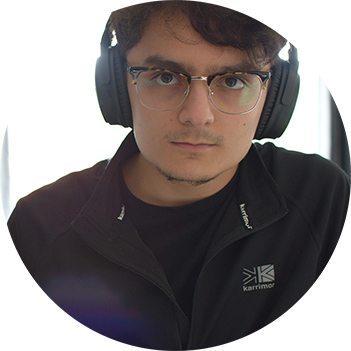
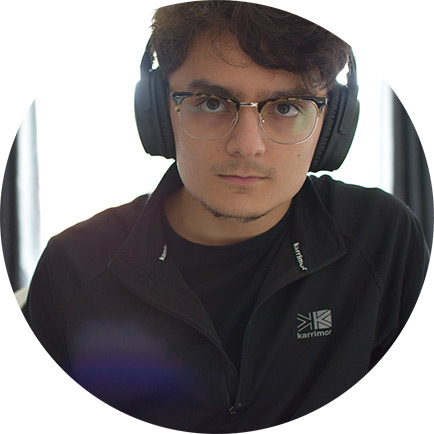
Final changes.

diff --git a/blog.html b/blog.html
@@ -63,21 +63,21 @@
         <figure>
           <img src="img/minecraft.jpg" alt="Minecraft in-game">
           <figcaption>
-            <p>Minecraft, the industry defining indie game.</p>
+            <p>Minecraft, the industry-defining indie game.</p>
           </figcaption>
         </figure>
-        <p>Minecraft actually taught me a lot. I learnt to mod in Java, which I and a couple of friends would turn into playing around with making (very) basic stick figure platforming games. I learnt basic PHP, how FTP and hosting worked, and how to utilise the command line to run my own public multiplayer sever, which I went on to build a community around. I was then given a lesson in leadership through running that server.</p>
-        <p>Somewhere in me, I regret stopping it all. It was something niche and ‘weird’, but that's more often a blessing than a curse. <a href="https://www.entrepreneur.com/article/285858" title="Entrepreneur article on success">Doing it right can bring great opportunity</a>. To much a degree, I was lost in trying to find something meaninful to apply it all to, and at the time, games and servers were not that.</p>
+        <p>Minecraft actually taught me a lot. I learnt to mod in Java, which I and a couple of friends would turn into playing around with making (very) basic stick figure platforming games. I learnt basic PHP, how FTP and hosting worked, and how to utilise the command line to run my own public multiplayer server, which I went on to build a community around. I was then given a lesson in leadership through running that server.</p>
+        <p>Somewhere in me, I regret stopping it all. It was something niche and ‘weird’, but that's more often a blessing than a curse. <a href="https://www.entrepreneur.com/article/285858" title="Entrepreneur article on success">Doing it right can bring great opportunity</a>. To much a degree, I was lost in trying to find something meaningful to apply it all to, and at the time, games and servers were not that.</p>
         <figure>
           <img src="img/oracle.jpg" alt="The Oracle environment">
           <figcaption>
             <p>An example of Minecraft open in the Oracle environment.</p>
           </figcaption>
         </figure>
-        <p>I wanted to be more creative, and lost the heart for programming along the way. Once more, if I look back on that, it was a shame. I went to college studying IT and chose a graphics &amp; media route, as opposed to a programming one. We dabbled in C for a bit, and though I found it fairly easy to pick up having understood the fundamentals of Java (even if I’d forgotten exactly how to write it at this point), I longed for something a little more fulfilling.</p>
+        <p>I wanted to be more creative and lost the heart for programming along the way. Once more, if I look back on that, it was a shame. I went to college studying IT and chose a graphics &amp; media route, as opposed to a programming one. We dabbled in C for a bit, and though I found it fairly easy to pick up having understood the fundamentals of Java (even if I’d forgotten exactly how to write it at this point), I longed for something a little more fulfilling.</p>
         <p>The indecision there meant that I didn’t consider university too much, or even understand entirely how it worked. I found a Digital Media/Marketing course browsing through UCAS one day, and though I still can’t put my finger on why, decided that it would be the only choice. With offers from all universities that I applied to, I chose MMU.</p>
-        <p>Perhaps inevitable given the impulse in the decision, I didn’t really ever feel it for marketing. I reasonably well in it, given the lack of real interest. I was part of groups that made this <a href="https://www.youtube.com/watch?v=LBbVDU4mq30" title="Swizzels' Love Hearts video">advertisement for Swizzels’ Love Hearts brand</a>, and created this <a href="https://drive.google.com/file/d/0ByvNqwTNzDddcjI2N255TFhrMFE/view?usp=sharing" title="PDF of Flux Fitness portfolio">theoretical brand extension for Sony Playstation</a> (be warned, though it does NOT download automatically, that links to a big .PDF file). We managed solid firsts for both of those through extensive research and well thought presentation.</p>
-       <figure>
+        <p>Perhaps inevitable given the impulse in the decision, I didn’t really ever feel it for marketing. I reasonably well in it, given the lack of real interest. I was part of groups that made this <a href="https://www.youtube.com/watch?v=LBbVDU4mq30" title="Swizzels' Love Hearts video">advertisement for Swizzels’ Love Hearts brand</a>, and created this <a href="https://drive.google.com/file/d/0ByvNqwTNzDddcjI2N255TFhrMFE/view?usp=sharing" title="PDF of Flux Fitness portfolio">theoretical brand extension for Sony PlayStation</a> (be warned, though it does NOT download automatically, that links to a big .PDF file). We managed solid firsts for both of those through extensive research and well-thought presentation.</p>
+        <figure>
           <img src="img/swizzels.jpg" alt="Screenshot of the Swizzels' adverstisment">
           <figcaption>
             <p>Intro to the advertisement for Sizzels' Matlow.</p>
@@ -85,7 +85,7 @@
         </figure>
         <p>However, I did decide to switch my graduation route to Web Development in my final year. I had a thing for the coding aspect of websites ever since I started, and the front-end allows me to squeeze in that itch for creativity. It took a while and a lot of back and forth, but I think that I’ve been dropped in the right place this time around.</p>
         <p>This was perhaps the context that I was missing when previously learning these programming skills. I didn't have what I would've considered to be a 'real' reason to be extending my Java knowledge, but I've now seen something that I can apply what I learnt previously in programming to.</p>
-        <p>With the intention of progressing the web field, I’ve opted to delve in to as much as I can. I love listening to podcasts, especially when doing things like commuting or getting other work done. As such, I found some ones relevant to the web; <a href="https://syntax.fm/" title="Syntax.fm podcast">Syntax (though they dive a little deeper)</a>, <a href="http://shoptalkshow.com/" title="Shop Talk podcast">Shop Talk</a>, and <a href="https://responsivewebdesign.com/podcast/" title="Responsive Web Design podcast">A Responsive Web Design Podcast</a> are my regular choices. I’ve also taken to reading on the topic - the <a href="https://abookapart.com/" title="A Book Apart books">A Book Apart ones</a> are great, and short! I then look to attend conferences and workshops where time allows going forward. I was recently at <a href="https://2017.manchester.wordcamp.org/" title="Wordcamp Manchester 2017">Wordcamp Manchester 2017</a>, and have a couple of workshops lined up.</p>
+        <p>With the intention of progressing the web field, I’ve opted to delve into as much as I can. I love listening to podcasts, especially when doing things like commuting or getting other work done. As such, I found some relevant to the web; <a href="https://syntax.fm/" title="Syntax.fm podcast">Syntax (though they dive a little deeper)</a>, <a href="http://shoptalkshow.com/" title="Shop Talk podcast">Shop Talk</a>, and <a href="https://responsivewebdesign.com/podcast/" title="Responsive Web Design podcast">A Responsive Web Design Podcast</a> are my regular choices. I’ve also taken to reading on the topic - the <a href="https://abookapart.com/" title="A Book Apart books">A Book Apart ones</a> are great, and short! I then look to attend conferences and workshops where time allows going forward. I was recently at <a href="https://2017.manchester.wordcamp.org/" title="Wordcamp Manchester 2017">Wordcamp Manchester 2017</a>, and have a couple of workshops lined up.</p>
         <a class="blog-a" href="#top" title="Back to top of page">Back to top of page</a>
       </section>
       <section id="building-the-site" class="container blog">
@@ -93,19 +93,19 @@
         <p>As I’d imagine most students might go, previous iterations of my portfolio send shudders down my spine. I felt that poor design and development decisions couldn’t just be a lack of knowledge though, and a lot of people in industry put empathises on planning - and you could include in that wireframing, prototyping, sticking post-it notes everywhere. It’s most of the time the case that, if you’re to put a student website amongst a number of (even junior) professionals', it’ll stick out like a sore thumb. While I’d argue that my latest effort wasn’t <i>so</i> bad, there were still a lot of things that I’d look at and not think twice about discarding.</p>
         <p>As such, I went researching. As much as I could look at a professional portfolio and know that it’s a step up, I didn’t know why. As well as taking a look at some past MMU graduate’s sites while they were still linked to, I Googled for some good examples of portfolios in my sort of area - returning some good ones like <a href="https://ianlunn.co.uk/" title="Ian Lunn's web portfolio">Ian Lunn</a>, <a href="http://mattfarley.ca/" title="Matt Farley's web portfolio">Matt Farley</a> and <a href="http://www.emilyridge.ie/" title="Emily Ridge's web portfolio">Emily Ridge</a>. These were the ones that I thought were the <i>best</i> examples at least, with aspects and elements which I deemed attainable to my level.</p>
         <figure>
-          <img src="img/mobile-wireframe.jpg" alt="My intial mobile wireframe">
+          <img src="img/mobile-wireframe.jpg" alt="My initial mobile wireframe">
           <figcaption>
-            <p>My intial wireframe designs for mobile.</p>
+            <p>My initial wireframe designs for mobile.</p>
           </figcaption>
         </figure>
         <p>My research returned staples like big buttons position front and center, serving as call-to-actions, and a natural progression through the site (often through links at the end of pages). Icons were also a big thing - visual indicators accompanying text, as opposed to just text alone; I was beginning to see that everywhere. The Nielsen Norman Group wrote an <a href="https://www.nngroup.com/articles/icon-usability/" title="NN Group artcile on icons">article on icons on the web</a>, which highlights why I really love seeing them - they're (in most cases) universally recognisable, easy targets that immediately resonate with the user - as opposed to plain text, where the context isn't always there straight away.</p>
         <figure>
           <img src="img/icons.jpg" alt="Icons used on the web">
           <figcaption>
-            <p>An example on <a href="http://mattfarley.ca/" title="Matt Farley's web portfolio">mattfarley.ca</a> of icons being use on the web.</p>
+            <p>An example on <a href="http://mattfarley.ca/" title="Matt Farley's web portfolio">mattfarley.ca</a> of icons being used on the web.</p>
           </figcaption>
         </figure>
-        <p>A theme that I saw occasionally and despised was almost anything that hides content, or presents an extra step in order to access it. I’ve no affinity whatsoever towards a carousel of images, and hamburger menus on desktop are a long time pet hate. Hidden navigation (and other content) is useful where you can’t appropriately fit content into a viewport - but where you can, and you make the choice to still hide content, it’s even <a href="https://www.nngroup.com/articles/hamburger-menus/" title="NN Group article on menu usability">proven to be much less effective</a>. <a href="https://caferati.me/" title="Rafael Caferati's web portfolio">Rafael Caferati’s portfolio</a>, whilst stunning technically, made me give up after clicking right on the carousel just once.</p>
+        <p>A theme that I saw occasionally and despised was almost anything that hides content or presents an extra step in order to access it. I’ve no affinity whatsoever towards a carousel of images, and hamburger menus on desktop are a long time pet hate. Hidden navigation (and other content) is useful where you can’t appropriately fit content into a viewport - but where you can, and you make the choice to still hide content, it’s even <a href="https://www.nngroup.com/articles/hamburger-menus/" title="NN Group article on menu usability">proven to be much less effective</a>. <a href="https://caferati.me/" title="Rafael Caferati's web portfolio">Rafael Caferati’s portfolio</a>, whilst stunning technically, made me give up after clicking right on the carousel just once.</p>
         <p>While building the portfolio, one of the technologies that I came across which I’m yet to use is CSS Grids. Hearing that it’s the next best thing, I took to reading into it.  I first came across a CSS Tricks article detailing <a href="https://css-tricks.com/snippets/css/complete-guide-grid/" title="CSS Tricks article on grid">everything that you’d need to start with grid</a>, and following reference from that article, I also picked up a copy of Rachael Andrews’ <a href="https://abookapart.com/products/get-ready-for-css-grid-layout" title="Rachael Andrews' Get Ready for CSS Grid Layout">‘Get Ready for CSS Grid Layout’</a>. It's considered one of the best ways to go about layout in the future, once compatibility is across the board <a href="https://caniuse.com/#feat=css-grid" title="CSS Grids compatibility">(it's almost there!)</a>. Grids remove the need for hacked together methods of positioning elements, which were never made for positioning entire pages in the first place (the likes of floats and to a degree, even positioning like absolute) and present a method that's much easier to control from a CSS point of view.</p>
         <figure>
           <img src="img/cssgrids.jpg" alt="CSS Grids compatibility">
@@ -113,23 +113,35 @@
             <p>CSS Grids are almost compatible across the board, as shown by <a href="https://caniuse.com/#feat=css-grid" title="CSS grids compatibility">caniuse.com</a></p>
           </figcaption>
         </figure>
-        <p>After implementing it on a short scale though, I came to realise that grid lacked use in the layout that I was using - one that’s very much single column, where content flows naturally without almost any CSS anyway. It still use it in the header - it works well to keep the arrow to the bottom of the viewport, and the nav spanning the width on mobile - but I was hesitant to use it throughout. I’m certainly keen on using it to a greater extent going forward. Something that I feel would be a huge benefit to myself is that it would allow me to experiment with design a lot more with position being so easy be default, and I could break out of keeping things very linear.</p>
-        <p>I’d finally touch on accessibility. Attending Wordcamp Manchester 2017, I was at a talk by specialist <a href="http://www.twitter.com/coolfields/" title="Graham Armfield's Twitter page">Graham Armfield</a>, who noted the ignorance in some modern browsers towards accessibility issues. You could often be tabbing though a page and visually have no idea where you were. Things like that put accessibility in greater context.</p>
+        <p>After implementing it on a short scale though, I came to realise that grid lacked use in the layout that I was using - one that’s very much single column, where content flows naturally without almost any CSS anyway. It still use it in the header - it works well to keep the arrow to the bottom of the viewport, and the nav spanning the width on mobile - but I was hesitant to use it throughout. I’m certainly keen on using it to a greater extent going forward. Something that I feel would be a huge benefit to myself is that it would allow me to experiment with design a lot more with positioning being so easy by default, and I could break out of keeping things very linear.</p>
+        <p>I’d finally touch on accessibility. Attending Wordcamp Manchester 2017, I was at a talk by specialist <a href="http://www.twitter.com/coolfields/" title="Graham Armfield's Twitter page">Graham Armfield</a>, who noted the ignorance in some modern browsers towards accessibility issues. You could often be tabbing through a page and visually have no idea where you were. Things like that put accessibility in greater context.</p>
         <p>As such, I’ve taken precautions like altering the default browser focus to include yellow backgrounds on links and yellow outlines on forms - <a href="http://govuk-elements.herokuapp.com/form-elements/" title=".GOV.UK sugesstions on styling form elements">as recommended by .GOV.UK</a>. They also suggest removing presets from form fields, and instead hinting above what you’d like the user to fill in, just so that they don’t lose the suggestion when they begin typing.</p>
         <a class="blog-a" href="#top" title="Back to top of page">Back to top of page</a>
       </section>
       <section id="optimisation-seo" class="container blog">
         <h3>Optimisation and SEO</h3>
-        <p>Search Engine Optimisation is what the web uses to prioritise websites in search engines like Google. Data provided when developing the website will be read by these engines, and will factor in to ranking and how well the site is accepted. Websites will even sometimes be not just de-ranked, but disregarded by engines completely, if it's decided that they're making purposeful attempts to abuse the system.</p>      
-        <p>SEO is also something that I’ve often heard contrasting points on as to what is and isn’t relevant - though I imagine that it’s somewhat to be expected on an ever-changing medium like the web.</p>
+        <p>Search Engine Optimisation is what the web uses to prioritise websites in search engines like Google. Data provided when developing the website will be read by these engines, and will factor into ranking and how well the site is accepted. Websites will even sometimes be not just de-ranked, but disregarded by engines completely, if it's decided that they're making purposeful attempts to abuse the system.</p>      
+        <p>SEO is also something that I’ve often heard contrasting points on as to what is and isn’t relevant - though I imagine that it’s <a href="https://moz.com/beginners-guide-to-seo/why-search-engine-marketing-is-necessary" title="moz.com article on SEO and constant change">somewhat to be expected</a> on an ever-changing medium like the web.</p>
         <p>Helpfully, SEO specialists moz.com produced <a href="https://moz.com/blog/seo-meta-tags" title="Moz.com's SEO guide">this guide</a>, refreshed for 2017 to include everything relevant to SEO in the current day. Line that up alongside David Dias’ front-end developer checklist, which has a <a href="https://github.com/thedaviddias/Front-End-Checklist#seo" title="David Dias' front-end-checlist SEO">short section dedicated to SEO</a> and everything else that a developer should include, and you can build a pretty good base as to what you need.</p>
         <p>There are a few things that stood out to me about reading these and implementing SEO into this portfolio. First is the lack of importance given to meta tags now. If three things were to be highlighted as crucial to search engine performance, you’d go for the &lt;title&gt;, &lt;meta&gt; description, and the body’s &lt;h1&gt; element.</p>
         <p>Keywords, given the nature of them being easy to essentially spam and abuse, are almost <a href="http://www.wordstream.com/meta-tags" title="Wordstream meta tags guide">entirely disregarded by major search engines like Google</a>. I can appreciate the fact that prominence is given to meaningful, well-written titles and descriptions as opposed a series of jumbled, potentially meaningless keywords.</p>
         <p>I’d also highlight <a href="https://developers.facebook.com/docs/sharing/webmasters/" title="Facebook's page for website developers">Facebook’s OpenGraph</a> and <a href="https://developer.twitter.com/en/docs/tweets/optimize-with-cards/guides/getting-started" title="Twitter's page for website developers">Twitter’s Cards</a>. Including these within your the head of your website allow you to control how the website is presented when linked across the web.</p>
+        <figure>
+          <img src="img/twitter-cards.jpg" alt="Twitter's Card metadata">
+          <figcaption>
+            <p>My implementation of Twitter's metadata.</p>
+          </figcaption>
+        </figure>
         <p>There's an argument to be made from an analytical standpoint that while you could just leave websites to read your default titles and descriptions, it would be wise to manipulate how social sites present them. There <i>could</i> well be benefit to snappier, more to-the-point content given the fast, nonchalant nature of social media.</p>
         <p>In terms of other optimisations, I’ve also made attempts to condense my media as best as I can. I’ve often neglected image size and how long it’ll take for a user to download. We naturally design for ourselves, and when we’re on fast connection, it’s often hard to notice those who aren’t.</p>
         <p>Where my previous attempts left my background images at around 250KB, even through using <a href="https://developers.google.com/speed/pagespeed/insights/" title="Google's website Speed Insights">Google’s Speed Insights</a> which provides optimisation for you, this time around I’ve used Photoshop to control both the size and quality of JPEGs. I’ve made attempts to keep all images under 50KB, and where possible, keep most closer to 25KB.</p>
-        <p>In addition to that, my icons are now SVGs. The arrow on the headers and the social media links in the footers are all inline. Being SVGs makes them small downloads to any client, and inline <a href="https://jonsuh.com/blog/animate-svg-with-css/" title="Article on SVG manipulation with CSS">SVG is extremely easy to manipulate</a> as far as animation goes. Animating a JPEG or PNG background-image requires the user loading another image just to change the colour, whereas inline SVG only has to change the fill of the path in order to add a hover state colour. I've seen the light.</p>
+        <figure>
+          <img src="img/inline-svg.jpg" alt="Inline SVG implementation">
+          <figcaption>
+            <p>My use of inline SVGs in social icons.</p>
+          </figcaption>
+        </figure>           
+        <p>In addition to that, my icons are now SVGs. The arrow on the headers and the social media links in the footers are all inline. Being SVGs makes them small downloads to any client, and inline <a href="https://jonsuh.com/blog/animate-svg-with-css/" title="Article on SVG manipulation with CSS">SVG is extremely easy to manipulate</a> as far as animation goes. Animating a JPEG or PNG background-image requires the user loading another image just to change the colour, whereas inline SVG only has to change the fill of the path in order to add a hover state colour. I've seen the light.</p>     
         <a class="blog-a" href="#top" title="Back to top of page">Back to top of page</a>
       </section>
       <a class="next-page" href="index.html#contact" title="Contact me">
@@ -186,6 +198,7 @@
             </a>
           </svg></li>
         </ul>
+        <p>&copy; <a href="http://www.mmu.ac.uk/" title="MMU homepage">MMU 2017</a> | THIS IS STUDENT COURSEWORK | TUTOR <a href="mailto:r.eskins@mmu.ac.uk">Richard Eskins</a> | <a href="http://validator.w3.org/check?uri=referer" title="W3C HTML Validation Service" >Valid HTML</a></p>
         <a href="#top" title="Back to top of page">Back to top of page</a>
       </div>
     </footer>

diff --git a/portfolio-cv.html b/portfolio-cv.html
@@ -58,36 +58,44 @@
               <p>Teaching students who're new to Manchester a thing or two!</p>
             </div>
           </a>
+          <p>I created this as part of a group in my second year of university. It's a website designed for students new to Manchester, giving them ideas on what to do and where to go. Being more of a developer, my job was the vast majority of the coding while the others took the burden of aspects like content.</p>
         </div>
   		</section>
       <section id="my-cv">
         <div class="background-img bg-louvre"><h2>My CV</h2></div>
         <div class="container">
-          <p>I'm an aspiring front-end devloper and final year Web Development student. Currently based in Manchester, my roots are in Worcester of the West Midlands.</p>
+          <p>I'm an aspiring front-end developer and final year Web Development student. Currently based in Manchester, my roots are in Worcester of the West Midlands.</p>
           <p>I've gone back and forth on what part of the digital field I want to move into over the years, but I think I've finally settled on website development.</p>
-          <div class="center-button"><a class="download" title="View my curriculum vitae">View a .PDF CV</a></div>
+          <div class="center-button"><a href="https://drive.google.com/open?id=1yAf5n1P7DVXr5rKM0CYt79eBrsl9HA9W" class="download" title="View my curriculum vitae">View a .PDF CV</a></div>
           <p>This page details some of the more technical aspects of me and my experience. If you'd like a more formal and informative overview of my work experience and education, please take a look at the CV linked above!</p>
         </div>
       </section>
       <section class="container">
-        <h3>Technical Skills</h3>
+        <h3>Technical Skills and Tools</h3>
         <div class="cvcontainer">
           <p><b>HTML and CSS</b></p>
         </div>
-        <p>With desire to be on the front-end, it was vital to me that I learnt these skills well. I've spent a lot of time working on them, reading a number of books from <a href="" title="">A Book Apart</a> and other authors, as well as browsing blogs and forums wherever possible.</p>
-        <h3>Tools I Use</h3>
-          <div class="cvcontainer">
-            <p><b>Text Editor of choice</b> - Sublime Text</p>
-          </div>
-          <p>I've gone through a few editors, having started in Brackets, moved to Atom and ended up in Sublime. I can use it without a hitch on the £150 laptop that I bought (Macbook died, desperation kicked in) - that gets a big thumbs up.</p>
-          <div class="cvcontainer">
-            <p><b>Graphics editor of choice</b> - Adobe Photoshop CC</p>
-          </div>
-          <p>Having used Adobe Photoshop now and then for around 5 years, I've got a good grasp of how to fulfill necessary front-end tasks for the web (though I'm definitely no desinger). I've tried the alternatives, but always end up at the Adobe Suite.</p>
-          <div class="cvcontainer">
-            <p><b>Prototyping</b> - Adobe Xd</p>
-          </div>
-          <p>I like to develop, but prototyping is sometimes unavoidable. Though it's just come out of beta, having used Xd for a little while prior, it's my go-to.</p>
+        <p>With a desire to be on the front-end, it was vital to me that I learnt these skills well. I've spent a lot of time working on them, reading a number of books from <a href="" title="">A Book Apart</a> and other authors, as well as browsing blogs and forums wherever possible.</p>
+        <div class="cvcontainer">
+          <p><b>GitHub</b></p>
+        </div>
+        <p>I've recently started using GitHub, and operate predominantly from the command line. <a href="https://github.com/cameronspixels/portfolio" title="GitHub repository for my portfolio">My repository for this website</a> is the only thing that I've worked on so far, but I'm becoming more and more comfortable with version control.</p>
+        <div class="cvcontainer">
+          <p><b>JavaScript</b></p>
+        </div>
+        <p>I'm currently in the process of learning to implement JavaScript into my web work. I'm reasonably comfortable with jQuery, and found it somewhat easier to learn fundamentals in that way.</p>
+        <div class="cvcontainer">
+          <p><b>Text Editor</b> - Sublime Text</p>
+        </div>
+        <p>I've gone through a few editors, having started in Brackets, moved to Atom and ended up in Sublime. I can actually use it without a hitch on the £150 laptop that I bought - that gets a big thumbs up from me.</p>
+        <div class="cvcontainer">
+          <p><b>Graphics Editor</b> - Adobe Photoshop CC</p>
+        </div>
+        <p>Having used Adobe Photoshop now and then for around 5 years, I've got a good grasp of how to fulfil necessary front-end tasks for the web (though I'm definitely no designer). I've tried the alternatives, but always end up back at the Adobe Suite.</p>
+        <div class="cvcontainer">
+          <p><b>Prototyping</b> - Adobe Xd</p>
+        </div>
+        <p>I like to develop, but prototyping is often unavoidable. Though it's just come out of beta, having used Xd for a little while prior, it's become my go-to. It shocked me how quick and responsive the application was in almost any environment, making it incredibly easy and satisfying to use.</p>
       </section>
       <section class="container">
         <h3>Contact Details</h3>
@@ -98,8 +106,8 @@
         <div class="cvcontainer">
           <p><b>Social Media</b></p>
         </div>
-        <p>I'm most often on and respond best on Twitter, where you can find me <a href="http://www.twitter.com/cameronspixels/" title="Cameron's Twitter page">@cameronspixels</a>.</p>
-        <p>You can also find me on <a href="http://www.linkedin.com/in/cameron-barnes/" title="Cameron's Linkedin page">my Linkedin page</a>, where I detail my professional profile further.</p>
+        <p>I'm most often on and respond best on Twitter, where you can find me on <a href="http://www.twitter.com/cameronspixels/" title="Cameron's Twitter page">@cameronspixels</a>.</p>
+        <p>You can also get to me on <a href="http://www.linkedin.com/in/cameron-barnes/" title="Cameron's Linkedin page">my Linkedin page</a>, where I detail my professional profile further.</p>
       </section>      
       <a class="next-page" href="blog.html" title="Blog">
         <p>Interested in my rambling? Go to...</p>
@@ -155,6 +163,7 @@
             </a>
           </svg></li>
         </ul>
+        <p>&copy; <a href="http://www.mmu.ac.uk/" title="MMU homepage">MMU 2017</a> | THIS IS STUDENT COURSEWORK | TUTOR <a href="mailto:r.eskins@mmu.ac.uk">Richard Eskins</a> | <a href="http://validator.w3.org/check?uri=referer" title="W3C HTML Validation Service" >Valid HTML</a></p>
         <a href="#top" title="Back to top of page">Back to top of page</a>
       </div>
     </footer>

diff --git a/index.html b/index.html
@@ -41,7 +41,7 @@
   		<section class="container fade">
         <a class="skiplink" href="#content" title="Skip to main content">Skip to main content</a>
   			<h1>Cameron Barnes</h1>
-  			<p>I'm a(n aspiring) front-end website developer and final year Web Development student.</p>
+  			<p>I'm a front-end website developer and final year Web Development student.</p>
         <a class="download" href="#content" title="">See What I Do</a>
   		</section>
       <svg class="arrow fade" viewBox="0 0 32 32" xmlns="http://www.w3.org/2000/svg"><title>Arrow to content</title><a href="#content"><g><polygon class="social-icon-outer" points="29.998,16 22,16 22,2 9.999,2 9.999,16 1.999,16 15.999,30"/></g></a></svg>
@@ -50,10 +50,14 @@
   		<section>
         <div class="background-img bg-me"><h2>A Bit About Me</h2></div>
         <div class="container">
-          <p>Hi, I'm a 20 year old student living in a flat Manchester. I'm in the final year of my Web Development degree, and have aspiartions to move into front-end website development.</p>
-          <p>I've been programming for 5 or 6 years now, starting back in the early stages of Minecraft modding, alongside running gameservers. That taught me Java and basic object-oriented methods, as well as some PHP and how to use FTP.</p>
-          <p>I came to university initially studying Digital Media/Marketing, but realised very early on that the web development in the course came much more naturally to me than anything else. It's given me something to apply my previously learnt technical skills to, where games and gameservers previously didn't.</p>
+          <p>Hi, I'm a 20-year-old student living in a flat Manchester. I'm in the final year of my Web Development degree and have aspirations to move into front-end website development.</p>
+          <figure class="self-portrait">
+            <img src="img/self-portrait.jpg" alt="A very best portrait of Cameron in existence">
+          </figure>
+          <p>I've been programming for 5 or 6 years now, starting back in the early stages of Minecraft modding, alongside running game servers. That taught me Java and basic object-oriented methods, as well as some PHP and how to use FTP.</p>
+          <p>I came to university initially studying Digital Media/Marketing, but realised very early on that the web development in the course came much more naturally to me than anything else. It's given me something to apply my previously learned technical skills to, where games and game servers previously didn't.</p>
           <p>Luckily as I advanced into my final year, I was allowed to switch my degree route to Web Development. I didn't dislike marketing as such - I did reasonably well academically in it, and wouldn't have complained about graduating - but this has allowed me to focus on what I'm interested in most.</p>
+          <p>If you're interested, <a href="https://github.com/cameronspixels/portfolio" title="GitHub repository for my portfolio">here's a link to the GitHub repository for this portfolio website</a>, updated as I moved along in development.</p>
         </div>
   		</section>
       <section id="contact">
@@ -141,6 +145,7 @@
             </a>
           </svg></li>
         </ul>
+        <p>&copy; <a href="http://www.mmu.ac.uk/" title="MMU homepage">MMU 2017</a> | THIS IS STUDENT COURSEWORK | TUTOR <a href="mailto:r.eskins@mmu.ac.uk">Richard Eskins</a> | <a href="http://validator.w3.org/check?uri=referer" title="W3C HTML Validation Service" >Valid HTML</a></p>
         <a href="#top" title="Back to top of page">Back to top of page</a>
       </div>
   	</footer>

diff --git a/main.css b/main.css
@@ -1,18 +1,7 @@
-/*
-Black	#050401
-Grey 	#303036
-White #FFFAFF
-Red 	#F00D2E
-Dark	#D20D2E
-*/
-
-
+/* Gives a yellow background to focused elements, as opposed to potentially poor brower defaults */
 :focus {background-color: #FFBF47;}
 
-
 body {margin: 0; padding: 0; background-color: #FFF; color: #303036; font-family: 'Raleway', 'Helvetica', 'Arial', sans-serif; font-size: 100%; font-weight: 400;}
-
-/* Text Throughout */
 
 a {color: #0D0D0D; text-decoration: none; border-bottom: 2px solid #303036;}
 a:hover, a:active {color: #F00D2E; background-color: #FFF; border-color: #F00D2E;}
@@ -45,6 +34,8 @@ nav a {padding: 32px 0px; width: 100%; display: block; color: #FFF; text-indent:
 nav a:hover, nav a:active {color: #F00D2E; background-color: #FFF;}
 .active {color: #FFF;}
 
+/* I was previously using jQuery for the responsive menu. Thanks to the Code Computer guys, who introduced me to CSS tagreting and helped me not rely on the Javascript. */
+
 .handle {padding: 20px 20px; width: calc(100% - 40px); z-index: 3; background-color: #FFF; color: #0D0D0D; text-align: right;}
 .handle:hover {cursor: pointer;}
 .handle--close {display: none;}
@@ -73,6 +64,8 @@ nav a:hover, nav a:active {color: #F00D2E; background-color: #FFF;}
 .next-page {margin-top: 2rem; display: block; height: 200px; background-color: #F00D2E; color: #FFF;}
 .next-page p {padding: 2.5rem 0 0.5rem 0; color: #FFF; text-align: center; font-style: italic;}
 
+/* Contact form */
+
 form {text-align: center;}
 label, input, button, textarea {width: 75%; max-width: 600px; display: block; font-family: "Raleway", sans-serif;}
 label {margin: 0 auto 1.2rem auto;}
@@ -85,7 +78,8 @@ button:hover, button:active {background-color: #D20D2E; cursor: pointer;}
 
 /* Portfolio Page */
 
-.self-portrait {margin: 1rem 0 4rem 0; height: auto; width: 100%; border-radius: 50%;}
+.self-portrait {text-align: center;}
+.self-portrait img {height: auto; width: 100%; max-width: 200px; display: inline-block; text-align: center; border-radius: 50%;}
 .port-web {margin: 1rem 0 5rem 0; height: 400px; width: 100%; display: block; position: relative; background: no-repeat top center; background-size: cover; border: none;}
 .port-web:hover {border: none;}
 .port-web:hover .port-web-text, .port-web:active .port-web-text {background-color: rgba(240,13,46,0.9); transition: background-color 220ms ease-in-out;}
@@ -103,6 +97,8 @@ h4, .port-web-text p {margin: 16px 16px 16px 16px; padding: 0;}
 
 .cvcontainer p {padding-bottom: 0;}
 .cvcontainer {padding-bottom: 0.5rem;}
+
+/* Blogs */
 
 .blog-contents {padding: 1rem 0; text-align: center;}
 .blog-contents li {margin: 1.5rem 0; display: block;}
